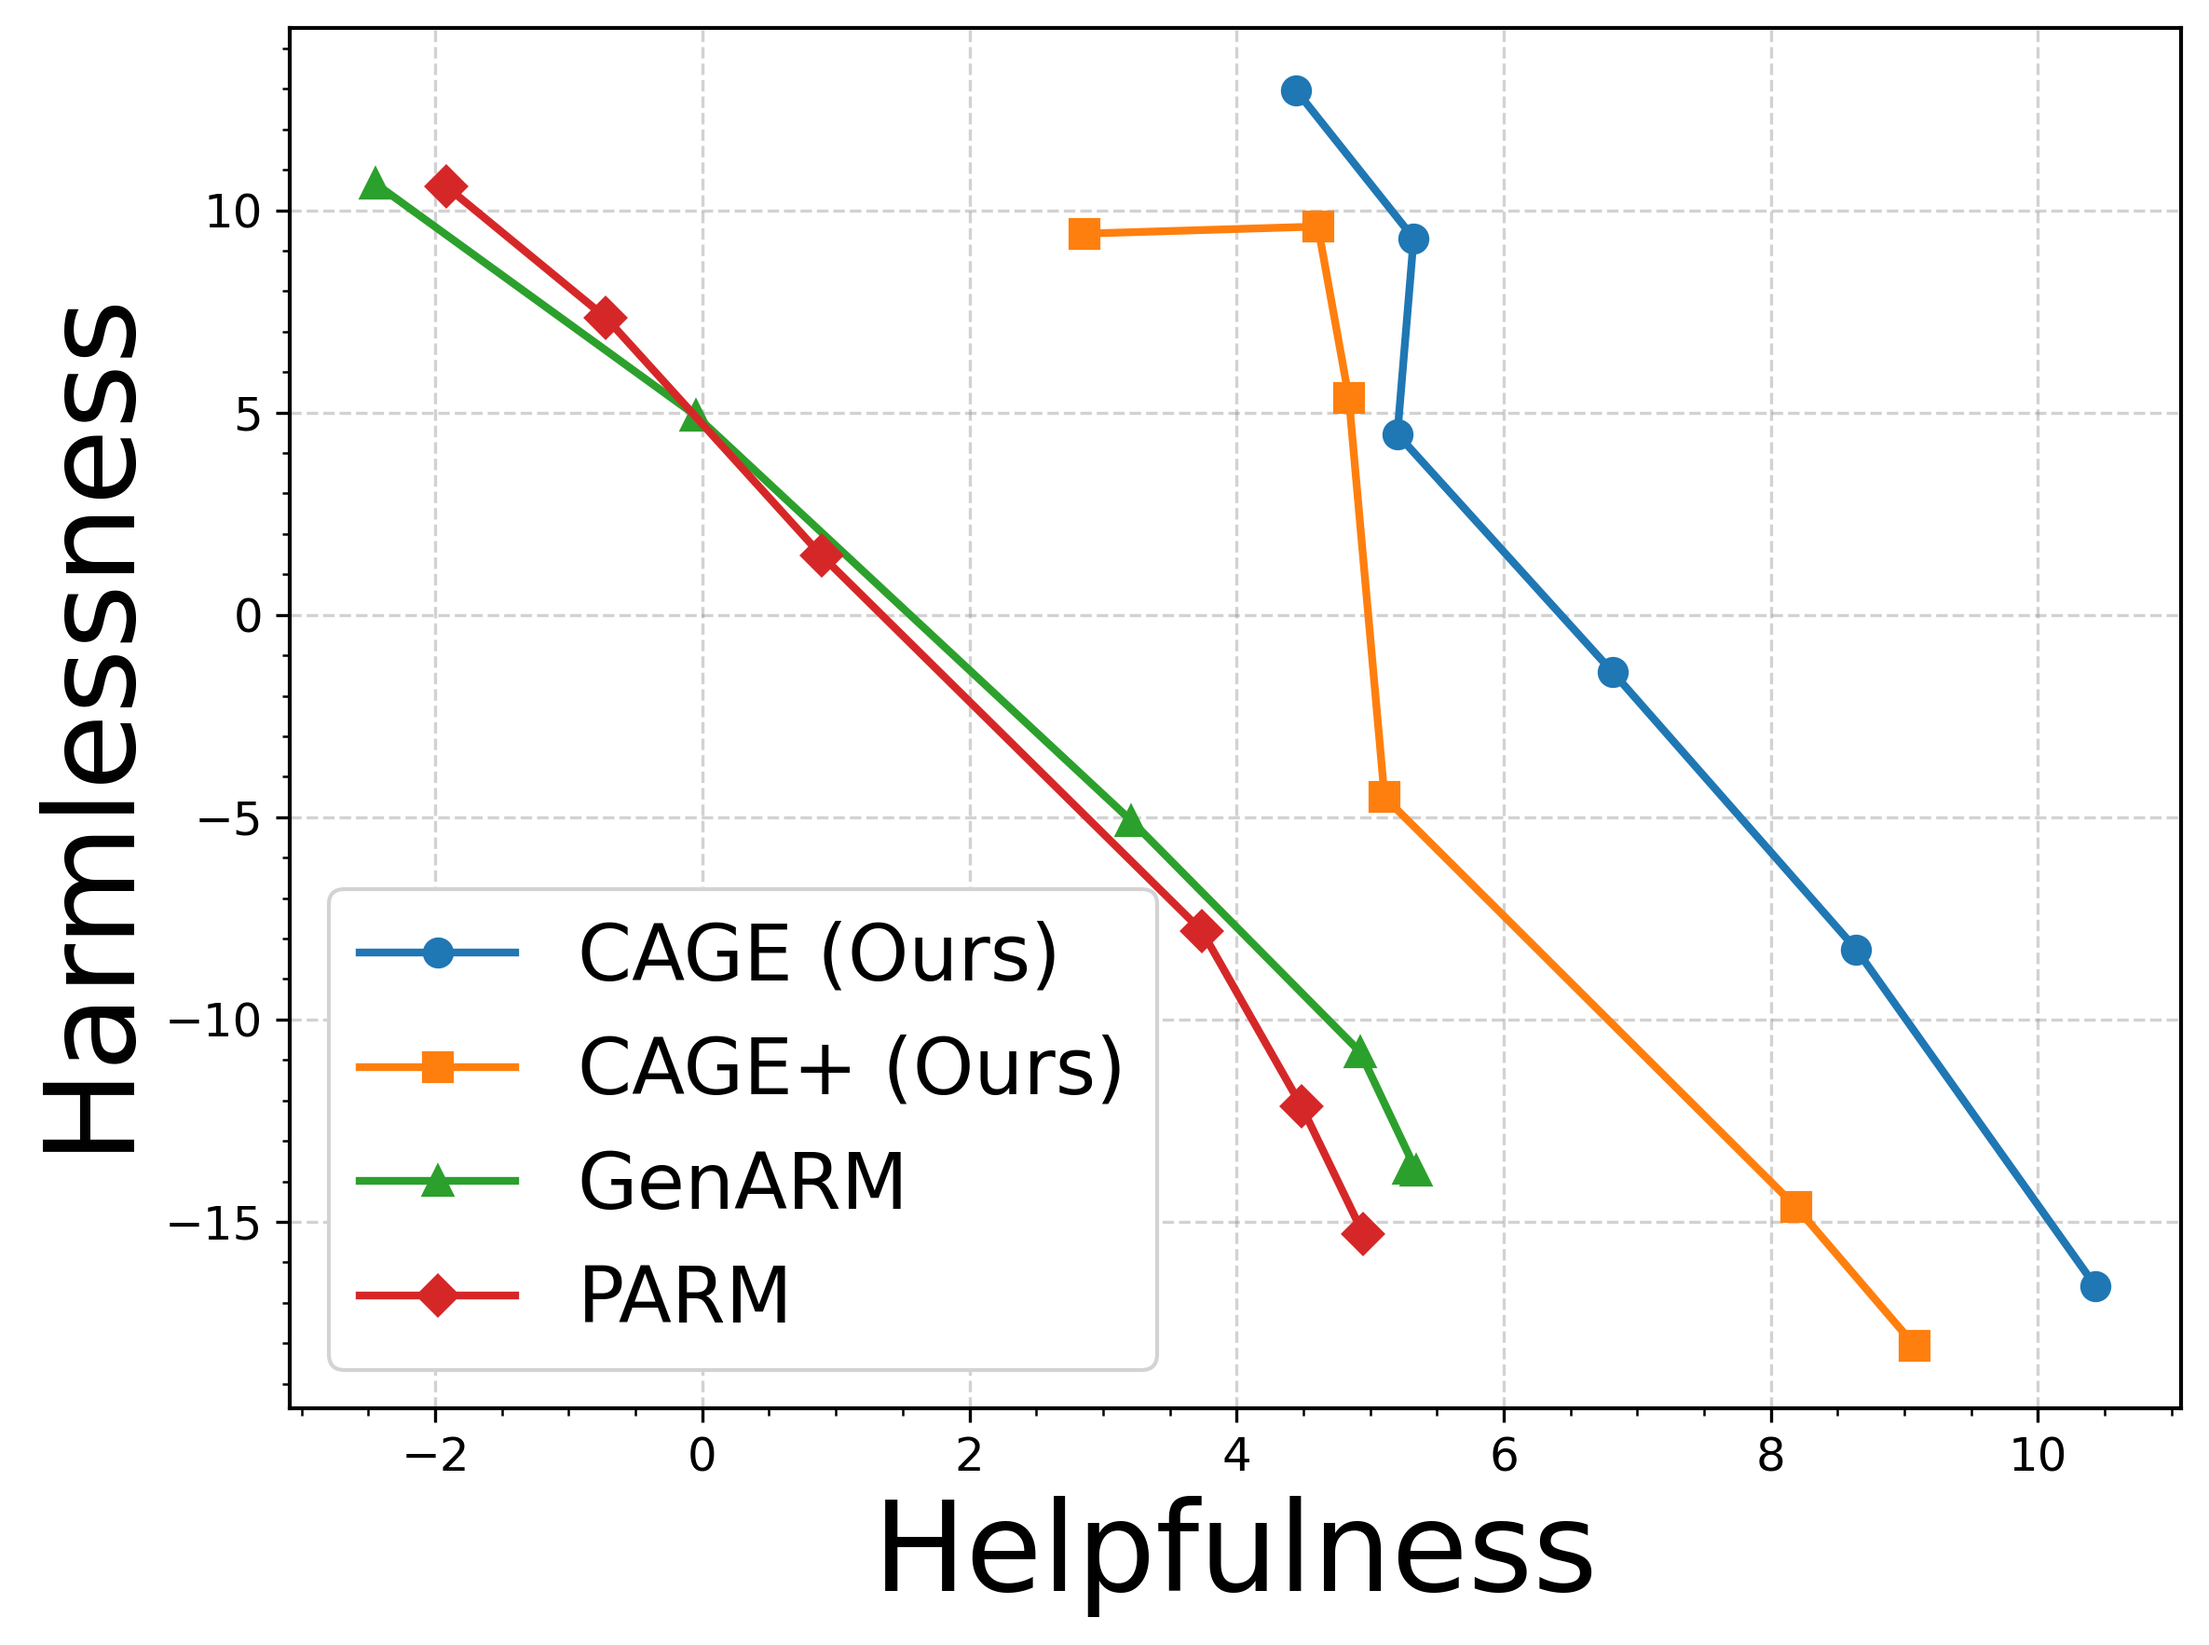
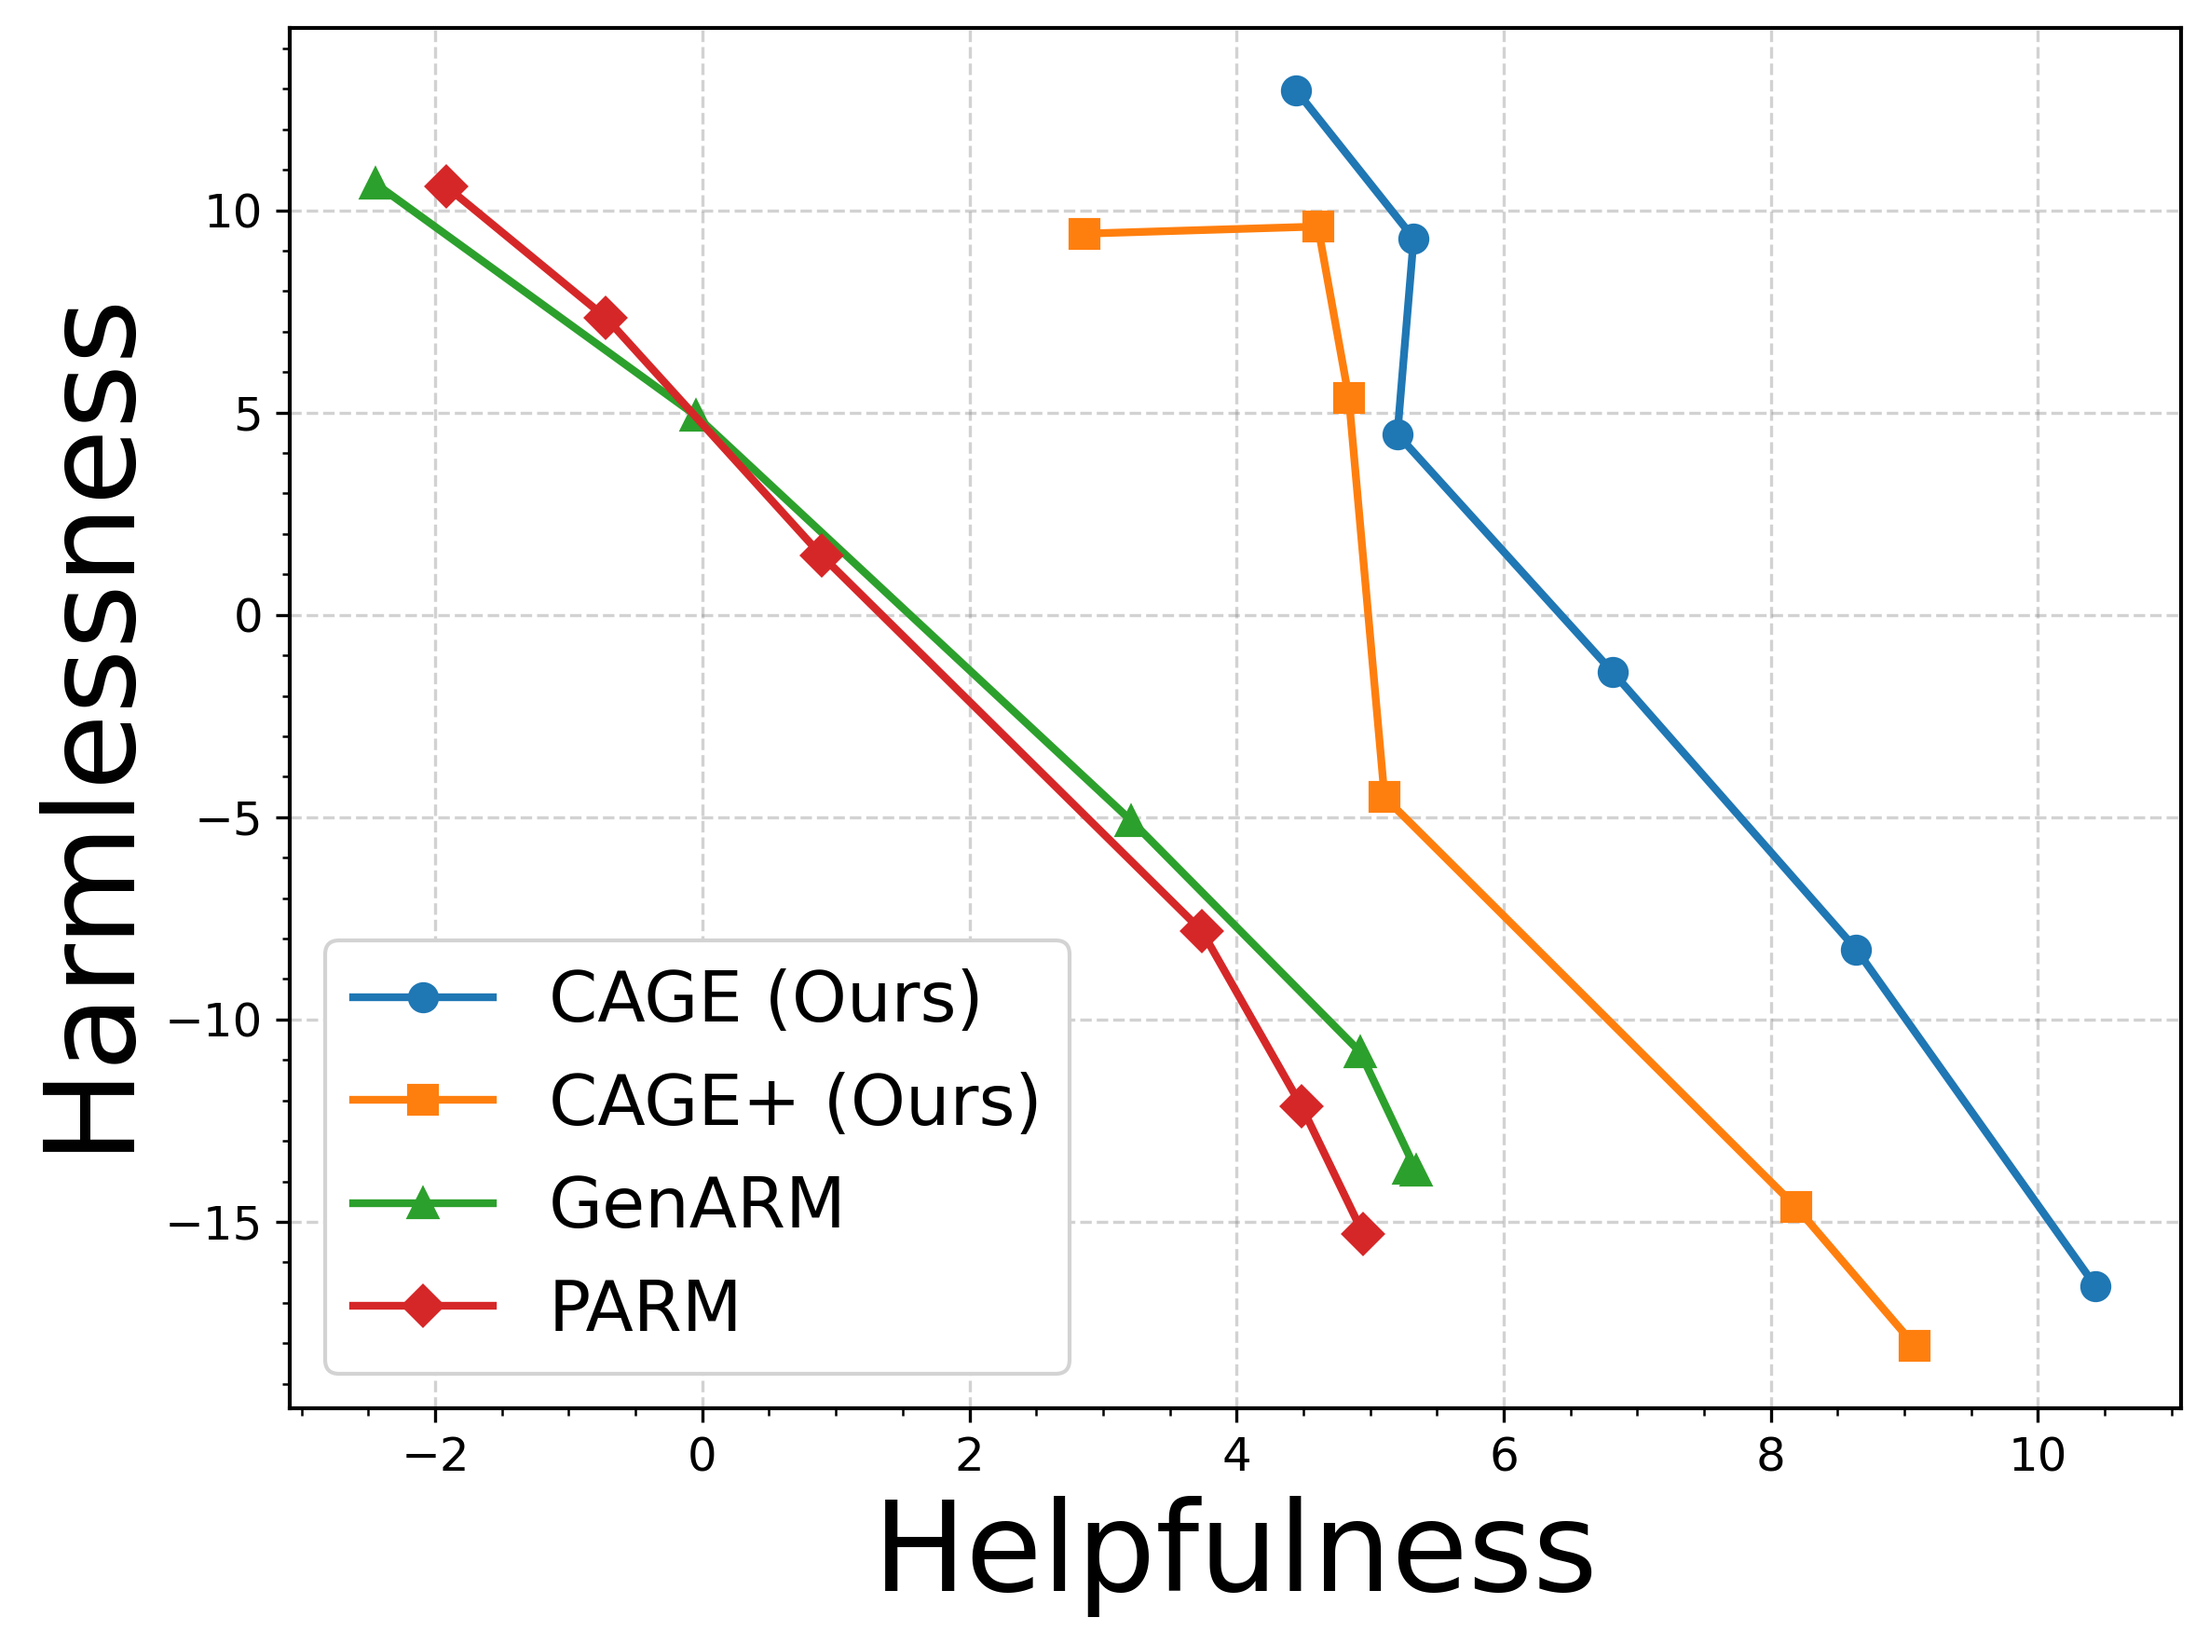
Update epec parm 0.1 0.9 results

Changed region(s): [[0.1248, 0.5609, 0.5306, 0.8414]]

diff --git a/code/evaluation/plot_pareto_tau.py b/code/evaluation/plot_pareto_tau.py
@@ -47,8 +47,8 @@ PARM_BASELINE_DIR = BASE_DIR / "results_parm"
 # ============================================================
 # tau and k
 # ============================================================
-TAU = 0.4
-K = 50
+TAU = 0.1
+K = 100
 
 SENS_DIR = BASE_DIR / "sensitivity analysis_new"
 RUN_DIR = SENS_DIR / f"tau={TAU}_N={K}"
@@ -589,7 +589,7 @@ def main():
         facecolor="white",
         edgecolor="lightgray",
         framealpha=1.0,
-        fontsize=20,
+        fontsize=18,
     )
 
     plt.tight_layout()
